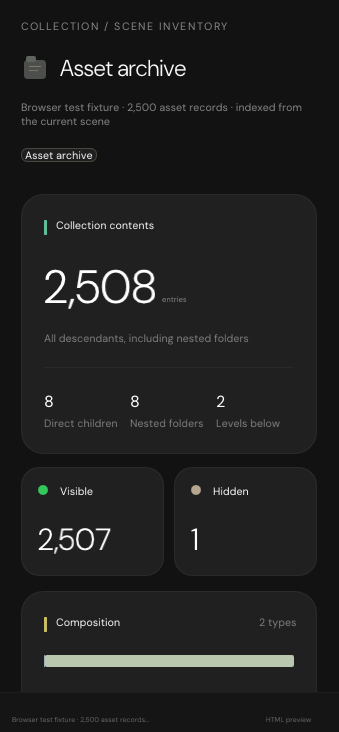
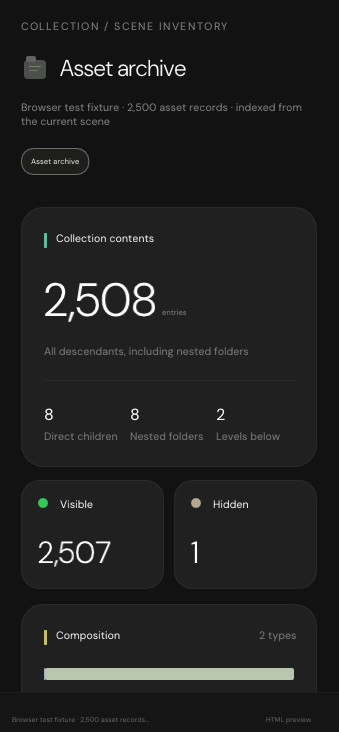
Replace default inspector widgets with source-styled controls

diff --git a/Frontier/Engine/Editor/InspectorPanel.cpp b/Frontier/Engine/Editor/InspectorPanel.cpp
@@ -312,10 +312,10 @@ void InspectorPanel::RecordCollection(EditorInstance& Selected, uint32_t Index) 
     auto EndCard=[&](){ImGui::EndChild();ImGui::PopStyleColor(2);ImGui::PopStyleVar(2);ImGui::Dummy({0,5});};
     ImGui::Dummy({0,1});RecordCaps("COLLECTION / SCENE INVENTORY",ImGui::GetCursorScreenPos(),kDim);ImGui::Dummy({0,27});
     const ImVec2 TitleAt=ImGui::GetCursorScreenPos();ImGui::Dummy({0,38});D->AddRectFilled({TitleAt.x+3,TitleAt.y+10},{TitleAt.x+25,TitleAt.y+29},IM_COL32(76,79,75,255),3);D->AddRectFilled({TitleAt.x+5,TitleAt.y+6},{TitleAt.x+15,TitleAt.y+12},IM_COL32(96,100,94,255),2);if(!std::strcmp(Selected.Label,"Asset archive")){D->AddLine({TitleAt.x+8,TitleAt.y+16},{TitleAt.x+20,TitleAt.y+16},IM_COL32(145,140,113,180),1);D->AddLine({TitleAt.x+8,TitleAt.y+20},{TitleAt.x+17,TitleAt.y+20},IM_COL32(145,140,113,150),1);}else D->AddRectFilled({TitleAt.x+6,TitleAt.y+21},{TitleAt.x+9,TitleAt.y+24},IM_COL32(75,135,151,220),1);ImGui::SetCursorScreenPos({TitleAt.x+35,TitleAt.y});ImGui::PushFont(Controls_->QueryTitle(),30);ImGui::SetNextItemWidth(W-78);ImGui::PushStyleColor(ImGuiCol_FrameBg,{0,0,0,0});ImGui::InputText("##folder-name",Selected.Label,sizeof(Selected.Label));ImGui::PopStyleColor();ImGui::PopFont();ImGui::SetCursorScreenPos({TitleAt.x,TitleAt.y+50});
-    ImGui::PushStyleColor(ImGuiCol_Text,kDim);ImGui::PushTextWrapPos(ImGui::GetCursorPosX()+W);ImGui::TextWrapped("%s",!std::strcmp(Selected.Label,"Asset archive")?"Browser test fixture · 2,500 asset records · indexed from the current scene":"Environment · indexed from the current scene");ImGui::PopTextWrapPos();ImGui::PopStyleColor();const ImVec2 AfterDescription=ImGui::GetCursorScreenPos();ImGui::SetCursorScreenPos({TitleAt.x+W-58,TitleAt.y+4});if(ImGui::InvisibleButton("##folder-notes-reveal",{54,24}))NotesFocus_=true;if(ImGui::IsItemHovered())D->AddText(Controls_->QuerySmall(),9,{TitleAt.x+W-54,TitleAt.y+11},kDim,Selected.Notes[0]?"Edit notes":"+ Notes");ImGui::SetCursorScreenPos(AfterDescription);if(Selected.Notes[0]&&ImGui::SmallButton("Edit Notes"))NotesFocus_=true;
+    ImGui::PushStyleColor(ImGuiCol_Text,kDim);ImGui::PushTextWrapPos(ImGui::GetCursorPosX()+W);ImGui::TextWrapped("%s",!std::strcmp(Selected.Label,"Asset archive")?"Browser test fixture · 2,500 asset records · indexed from the current scene":"Environment · indexed from the current scene");ImGui::PopTextWrapPos();ImGui::PopStyleColor();const ImVec2 AfterDescription=ImGui::GetCursorScreenPos();ImGui::SetCursorScreenPos({TitleAt.x+W-58,TitleAt.y+4});if(ImGui::InvisibleButton("##folder-notes-reveal",{54,24}))NotesFocus_=true;if(ImGui::IsItemHovered())D->AddText(Controls_->QuerySmall(),9,{TitleAt.x+W-54,TitleAt.y+11},kDim,Selected.Notes[0]?"Edit notes":"+ Notes");ImGui::SetCursorScreenPos(AfterDescription);if(Selected.Notes[0]){const ImVec2 NotesAt=ImGui::GetCursorScreenPos();if(ImGui::InvisibleButton("##edit-folder-notes",{72,26}))NotesFocus_=true;D->AddRectFilled(NotesAt,{NotesAt.x+72,NotesAt.y+26},IM_COL32(30,31,29,255),13);D->AddText(Controls_->QuerySmall(),9,{NotesAt.x+12,NotesAt.y+8},kText,"Edit Notes");}
     if(Selected.Notes[0]||NotesFocus_){ImGui::SetNextItemWidth(-1);ImGui::PushStyleColor(ImGuiCol_FrameBg,IM_COL32(13,13,13,255));ImGui::InputTextMultiline("##folder-notes",Selected.Notes,sizeof(Selected.Notes),{-1,58});NotesFocus_=ImGui::IsItemFocused()||NotesFocus_;ImGui::PopStyleColor();}
     ImGui::Dummy({0,12});ImGui::PushStyleVar(ImGuiStyleVar_FrameRounding,14);ImGui::PushStyleVar(ImGuiStyleVar_FrameBorderSize,1);ImGui::PushStyleColor(ImGuiCol_Border,{.28f,.28f,.25f,1});ImGui::PushStyleColor(ImGuiCol_Button,{.12f,.12f,.12f,1});ImGui::PushStyleColor(ImGuiCol_ButtonHovered,{.17f,.17f,.17f,1});
-    std::vector<uint32_t> Trail;for(uint32_t I=0;I<=Index&&I<RosterCount_;++I){while(!Trail.empty()&&Roster_[Trail.back()].Depth>=Roster_[I].Depth)Trail.pop_back();if(I==Index||Roster_[I].Category==EditorInstanceCategory::Folder)Trail.push_back(I);}const size_t First=Trail.size()>4?Trail.size()-4:0;for(size_t I=First;I<Trail.size();++I){if(I>First)ImGui::SameLine(0,3);if(ImGui::SmallButton(Roster_[Trail[I]].Label))CollectionPick_=Trail[I];if(I+1<Trail.size()){ImGui::SameLine(0,3);ImGui::TextDisabled("/");}}
+    std::vector<uint32_t> Trail;for(uint32_t I=0;I<=Index&&I<RosterCount_;++I){while(!Trail.empty()&&Roster_[Trail.back()].Depth>=Roster_[I].Depth)Trail.pop_back();if(I==Index||Roster_[I].Category==EditorInstanceCategory::Folder)Trail.push_back(I);}const size_t First=Trail.size()>4?Trail.size()-4:0;for(size_t I=First;I<Trail.size();++I){if(I>First)ImGui::SameLine(0,3);const char* Crumb=Roster_[Trail[I]].Label;const float CrumbW=Controls_->QuerySmall()->CalcTextSizeA(10,FLT_MAX,0,Crumb).x+20;const ImVec2 CrumbAt=ImGui::GetCursorScreenPos();ImGui::PushID(int(Trail[I]));if(ImGui::InvisibleButton("##crumb",{CrumbW,27}))CollectionPick_=Trail[I];ImGui::PopID();D->AddRectFilled(CrumbAt,{CrumbAt.x+CrumbW,CrumbAt.y+27},IM_COL32(30,31,29,255),14);D->AddRect(CrumbAt,{CrumbAt.x+CrumbW,CrumbAt.y+27},IM_COL32(108,111,101,255),14);D->AddText(Controls_->QuerySmall(),10,{CrumbAt.x+10,CrumbAt.y+8},kText,Crumb);if(I+1<Trail.size()){ImGui::SameLine(0,3);ImGui::TextDisabled("/");}}
     ImGui::PopStyleColor(3);ImGui::PopStyleVar(2);ImGui::Dummy({0,24});
 
     Card("##collection-total",260);D=ImGui::GetWindowDrawList();const ImVec2 TotalOrigin=ImGui::GetWindowPos();D->AddRectFilled({TotalOrigin.x+23,TotalOrigin.y+26},{TotalOrigin.x+26,TotalOrigin.y+41},IM_COL32(95,190,151,255),2);ImGui::SetCursorPos({35,24});ImGui::TextUnformatted("Collection contents");ImGui::SetCursorPos({23,62});ImGui::PushFont(Controls_->QueryDisplay(),61);char TotalText[32];CountText(TotalText,sizeof(TotalText),C.Total);ImGui::TextUnformatted(TotalText);ImGui::PopFont();const float TotalWidth=Controls_->QueryDisplay()->CalcTextSizeA(61,FLT_MAX,0,TotalText).x;D->AddText(Controls_->QuerySmall(),10,{TotalOrigin.x+29+TotalWidth,TotalOrigin.y+100},kDim,"entries");ImGui::SetCursorPos({23,137});ImGui::TextDisabled("All descendants, including nested folders");D->AddLine({TotalOrigin.x+23,TotalOrigin.y+173},{TotalOrigin.x+W-23,TotalOrigin.y+173},IM_COL32(255,255,255,10));ImGui::SetCursorPos({23,195});
@@ -328,11 +328,11 @@ void InspectorPanel::RecordCollection(EditorInstance& Selected, uint32_t Index) 
     const ImU32 Palette[]={IM_COL32(156,171,185,255),IM_COL32(185,199,174,255),IM_COL32(209,184,152,255),IM_COL32(166,161,152,255),IM_COL32(160,181,169,255),IM_COL32(190,181,163,255),IM_COL32(144,160,173,255),IM_COL32(199,185,161,255)};float BX=ImGui::GetCursorScreenPos().x,BY=ImGui::GetCursorScreenPos().y,BW=ImGui::GetContentRegionAvail().x;for(size_t I=0;I<CompositionTypes.size();++I){float Part=BW*CompositionTypes[I].Count/std::max(1u,C.Total);D->AddRectFilled({BX,BY},{BX+Part,BY+12},Palette[I%std::size(Palette)],2);BX+=Part;}ImGui::Dummy({0,CompositionTypes.size()<=2?31.f:23.f});
     if(ImGui::BeginTable("##composition-types",2,ImGuiTableFlags_SizingStretchSame)){for(size_t I=0;I<CompositionTypes.size();++I){const auto& Type=CompositionTypes[I];ImGui::TableNextColumn();ImGui::PushID(int(I));const float CellW=ImGui::GetContentRegionAvail().x;const bool SelectedType=Type.GlyphFilter?C.GlyphFilter==Type.GlyphFilter:(Type.CategoryFilter&&C.Category==Type.CategoryFilter);if(ImGui::Selectable(Type.Name,SelectedType,0,{CellW,27})){if(Type.GlyphFilter){C.GlyphFilter=SelectedType?0:Type.GlyphFilter;C.Category=0;}else if(Type.CategoryFilter){C.Category=SelectedType?0:Type.CategoryFilter;C.GlyphFilter=0;}C.Page=0;}ImGui::SameLine(CellW-20);ImGui::Text("%u",Type.Count);ImGui::PopID();}ImGui::EndTable();}ImGui::TextDisabled("Visibility includes ancestor folders. Counts are scene records, not render workload or memory.");EndCard();
 
-    Card("##collection-browser",820);D=ImGui::GetWindowDrawList();ImGui::PushStyleColor(ImGuiCol_FrameBg,IM_COL32(21,25,22,255));ImGui::PushStyleColor(ImGuiCol_FrameBgHovered,IM_COL32(27,32,28,255));ImGui::PushStyleColor(ImGuiCol_FrameBgActive,IM_COL32(31,37,32,255));ImGui::PushStyleColor(ImGuiCol_Button,IM_COL32(21,25,22,255));ImGui::PushStyleColor(ImGuiCol_ButtonHovered,IM_COL32(27,32,28,255));ImGui::PushStyleColor(ImGuiCol_ButtonActive,IM_COL32(31,37,32,255));ImGui::PushStyleVar(ImGuiStyleVar_FrameRounding,10);ImGui::PushStyleVar(ImGuiStyleVar_FramePadding,{8,8});{const ImVec2 P=ImGui::GetWindowPos();D->AddRectFilled({P.x+23,P.y+26},{P.x+26,P.y+41},IM_COL32(176,199,207,255),2);}ImGui::SetCursorPosX(35);ImGui::TextUnformatted("Browse contents");ImGui::SameLine(W-86);char MatchText[48];char MatchCount[32];CountText(MatchCount,sizeof(MatchCount),uint32_t(C.Matches.size()));std::snprintf(MatchText,sizeof(MatchText),"%s matches",MatchCount);ImGui::TextDisabled("%s",MatchText);ImGui::Dummy({0,14});ImGui::TextDisabled("Find an entry");ImGui::SetNextItemWidth(-1);bool Changed=ImGui::InputTextWithHint("##search","Name, ID or description…",C.Search,sizeof(C.Search));ImGui::Dummy({0,8});
-    const float FW=(ImGui::GetContentRegionAvail().x-8)*.5f;ImGui::TextDisabled("Scope");ImGui::SameLine(FW+8);ImGui::TextDisabled("Type");ImGui::SetNextItemWidth(FW);int Scope=C.DirectOnly?1:0;Changed|=ImGui::Combo("##scope",&Scope,"All descendants\0Direct children\0");C.DirectOnly=Scope==1;ImGui::SameLine();ImGui::SetNextItemWidth(FW);const char* ActiveType="All types";for(const auto& Type:CompositionTypes)if((Type.GlyphFilter&&C.GlyphFilter==Type.GlyphFilter)||(Type.CategoryFilter&&C.Category==Type.CategoryFilter)){ActiveType=Type.Name;break;}if(ImGui::BeginCombo("##type",ActiveType)){if(ImGui::Selectable("All types",!C.Category&&!C.GlyphFilter)){C.Category=C.GlyphFilter=0;Changed=true;}for(const auto& Type:CompositionTypes){const bool Active=(Type.GlyphFilter&&C.GlyphFilter==Type.GlyphFilter)||(Type.CategoryFilter&&C.Category==Type.CategoryFilter);if(ImGui::Selectable(Type.Name,Active)){C.GlyphFilter=Type.GlyphFilter;C.Category=Type.CategoryFilter;Changed=true;}}ImGui::EndCombo();}ImGui::Dummy({0,8});ImGui::TextDisabled("Visibility");ImGui::SameLine(FW+8);ImGui::TextDisabled("Sort");ImGui::SetNextItemWidth(FW);Changed|=ImGui::Combo("##visibility",&C.Visibility,"All entries\0Visible\0Hidden\0");ImGui::SameLine();ImGui::SetNextItemWidth(FW);Changed|=ImGui::Combo("##sort",&C.Sort,"Name A-Z\0Type\0Hierarchy depth\0");ImGui::Dummy({0,5});if(Changed)C.Page=0;C.Traverse(Roster_,RosterCount_,Index);
+    Card("##collection-browser",820);D=ImGui::GetWindowDrawList();ImGui::PushStyleColor(ImGuiCol_FrameBg,IM_COL32(21,25,22,255));ImGui::PushStyleColor(ImGuiCol_FrameBgHovered,IM_COL32(27,32,28,255));ImGui::PushStyleColor(ImGuiCol_FrameBgActive,IM_COL32(31,37,32,255));ImGui::PushStyleColor(ImGuiCol_Button,IM_COL32(21,25,22,255));ImGui::PushStyleColor(ImGuiCol_ButtonHovered,IM_COL32(27,32,28,255));ImGui::PushStyleColor(ImGuiCol_ButtonActive,IM_COL32(31,37,32,255));ImGui::PushStyleVar(ImGuiStyleVar_FrameRounding,10);ImGui::PushStyleVar(ImGuiStyleVar_FramePadding,{8,8});{const ImVec2 P=ImGui::GetWindowPos();D->AddRectFilled({P.x+23,P.y+26},{P.x+26,P.y+41},IM_COL32(176,199,207,255),2);}ImGui::SetCursorPosX(35);ImGui::TextUnformatted("Browse contents");ImGui::SameLine(W-86);char MatchText[48];char MatchCount[32];CountText(MatchCount,sizeof(MatchCount),uint32_t(C.Matches.size()));std::snprintf(MatchText,sizeof(MatchText),"%s matches",MatchCount);ImGui::TextDisabled("%s",MatchText);ImGui::Dummy({0,14});ImGui::TextDisabled("Find an entry");const ImVec2 SearchAt=ImGui::GetCursorScreenPos();D->AddRectFilled(SearchAt,{SearchAt.x+ImGui::GetContentRegionAvail().x,SearchAt.y+32},IM_COL32(21,25,22,255),10);ImGui::PushStyleColor(ImGuiCol_FrameBg,IM_COL32(0,0,0,0));ImGui::PushStyleVar(ImGuiStyleVar_FrameBorderSize,0);ImGui::SetNextItemWidth(-1);bool Changed=ImGui::InputTextWithHint("##search","Name, ID or description…",C.Search,sizeof(C.Search));ImGui::PopStyleVar();ImGui::PopStyleColor();ImGui::Dummy({0,8});
+    const float FW=(ImGui::GetContentRegionAvail().x-8)*.5f;auto SelectBox=[&](const char* Id,const char* Value,float Width){const ImVec2 P=ImGui::GetCursorScreenPos();ImGui::PushID(Id);const bool Clicked=ImGui::InvisibleButton("##select",{Width,32});ImGui::PopID();D->AddRectFilled(P,{P.x+Width,P.y+32},IM_COL32(21,25,22,255),10);D->AddText(Controls_->QueryUi(),11,{P.x+10,P.y+9},kText,Value);D->AddLine({P.x+Width-15,P.y+13},{P.x+Width-10,P.y+18},IM_COL32(188,201,182,255),1.5f);D->AddLine({P.x+Width-10,P.y+18},{P.x+Width-5,P.y+13},IM_COL32(188,201,182,255),1.5f);if(Clicked)ImGui::OpenPopup(Id);return ImGui::BeginPopup(Id);};ImGui::TextDisabled("Scope");ImGui::SameLine(FW+8);ImGui::TextDisabled("Type");if(SelectBox("scope",C.DirectOnly?"Direct children":"All descendants",FW)){if(ImGui::Selectable("All descendants",!C.DirectOnly)){C.DirectOnly=false;Changed=true;}if(ImGui::Selectable("Direct children",C.DirectOnly)){C.DirectOnly=true;Changed=true;}ImGui::EndPopup();}ImGui::SameLine();const char* ActiveType="All types";for(const auto& Type:CompositionTypes)if((Type.GlyphFilter&&C.GlyphFilter==Type.GlyphFilter)||(Type.CategoryFilter&&C.Category==Type.CategoryFilter)){ActiveType=Type.Name;break;}if(SelectBox("type",ActiveType,FW)){if(ImGui::Selectable("All types",!C.Category&&!C.GlyphFilter)){C.Category=C.GlyphFilter=0;Changed=true;}for(const auto& Type:CompositionTypes){const bool Active=(Type.GlyphFilter&&C.GlyphFilter==Type.GlyphFilter)||(Type.CategoryFilter&&C.Category==Type.CategoryFilter);if(ImGui::Selectable(Type.Name,Active)){C.GlyphFilter=Type.GlyphFilter;C.Category=Type.CategoryFilter;Changed=true;}}ImGui::EndPopup();}ImGui::Dummy({0,8});ImGui::TextDisabled("Visibility");ImGui::SameLine(FW+8);ImGui::TextDisabled("Sort");const char* VisibilityNames[]={"All entries","Visible","Hidden"};if(SelectBox("visibility",VisibilityNames[std::clamp(C.Visibility,0,2)],FW)){for(int I=0;I<3;++I)if(ImGui::Selectable(VisibilityNames[I],C.Visibility==I)){C.Visibility=I;Changed=true;}ImGui::EndPopup();}ImGui::SameLine();const char* SortNames[]={"Name A–Z","Type","Hierarchy depth"};if(SelectBox("sort",SortNames[std::clamp(C.Sort,0,2)],FW)){for(int I=0;I<3;++I)if(ImGui::Selectable(SortNames[I],C.Sort==I)){C.Sort=I;Changed=true;}ImGui::EndPopup();}ImGui::Dummy({0,5});if(Changed)C.Page=0;C.Traverse(Roster_,RosterCount_,Index);
     const size_t Start=size_t(C.Page)*C.PageSize,Last=std::min(C.Matches.size(),Start+size_t(C.PageSize));for(size_t J=Start;J<Last&&J<Start+7;++J){const auto M=C.Matches[J];auto& R=Roster_[M.Index];ImGui::PushID(int(M.Index));const float RowW=ImGui::GetContentRegionAvail().x;ImGui::InvisibleButton("##entry",{RowW-44,67});if(ImGui::IsItemClicked())CollectionPick_=M.Index;const ImVec2 RM=ImGui::GetItemRectMin();D->AddLine({RM.x,RM.y+66},{RM.x+RowW,RM.y+66},IM_COL32(255,255,255,10));const ImU32 RC=R.Category==EditorInstanceCategory::Light?IM_COL32(209,184,152,255):R.Category==EditorInstanceCategory::Camera?IM_COL32(156,171,185,255):R.Category==EditorInstanceCategory::Folder?IM_COL32(185,199,174,255):IM_COL32(18,111,194,255);const ImVec2 CubeC={RM.x+67.5f,RM.y+33.5f};const ImVec2 Cube[]={ {CubeC.x,CubeC.y-7},{CubeC.x+6,CubeC.y-3.5f},{CubeC.x+6,CubeC.y+4},{CubeC.x,CubeC.y+7.5f},{CubeC.x-6,CubeC.y+4},{CubeC.x-6,CubeC.y-3.5f} };D->AddTriangleFilled(Cube[0],Cube[1],CubeC,IM_COL32(18,111,194,80));D->AddTriangleFilled(Cube[0],CubeC,Cube[5],IM_COL32(18,111,194,55));D->AddQuadFilled(CubeC,Cube[1],Cube[2],Cube[3],IM_COL32(18,111,194,42));D->AddQuadFilled(Cube[5],CubeC,Cube[3],Cube[4],IM_COL32(18,111,194,28));D->AddPolyline(Cube,6,RC,1.2f,ImDrawFlags_Closed);D->AddLine(Cube[0],CubeC,RC,1);D->AddLine(CubeC,Cube[3],RC,1);D->AddLine(CubeC,Cube[1],RC,1);D->AddLine(CubeC,Cube[5],RC,1);D->AddText(Controls_->QueryUi(),13,{RM.x+87,RM.y+11},kText,R.Label);char Meta[64];std::snprintf(Meta,sizeof(Meta),"%s · level %u",EditorInstanceLabel(R.Category),R.Depth);D->AddText(Controls_->QuerySmall(),10,{RM.x+87,RM.y+31},kDim,Meta);const char* Parent="scene";for(uint32_t K=M.Index;K>0;){--K;if(Roster_[K].Depth<R.Depth){Parent=Roster_[K].Label;break;}}char VisibilityText[96];std::snprintf(VisibilityText,sizeof(VisibilityText),"%s · %s",M.Visible?"Visible":"Hidden",(!std::strcmp(Selected.Label,"Asset archive")&&R.Meta[0])?R.Meta:Parent);D->AddText(Controls_->QuerySmall(),9,{RM.x+87,RM.y+46},kFaint,VisibilityText);ImGui::SameLine();ImGui::InvisibleButton("##entry-visibility",{38,67});if(ImGui::IsItemClicked()&&!R.Pinned)R.Visible=!R.Visible;const ImVec2 ToggleMin=ImGui::GetItemRectMin(),ToggleC={ToggleMin.x+19,ToggleMin.y+33.5f};D->AddCircleFilled(ToggleC,15,M.Visible?IM_COL32(39,54,40,255):IM_COL32(48,48,48,255),24);D->AddCircleFilled(ToggleC,4,M.Visible?IM_COL32(91,190,116,255):IM_COL32(122,122,122,255),16);ImGui::PopID();}
-    if(C.Matches.empty()){ImGui::TextDisabled("No matching entries.");}const int Pages=std::max(1,(int(C.Matches.size())+C.PageSize-1)/C.PageSize);char PageRange[64],MatchTotal[24];CountText(MatchTotal,sizeof(MatchTotal),uint32_t(C.Matches.size()));std::snprintf(PageRange,sizeof(PageRange),"%zu–%zu of %s",C.Matches.empty()?0:Start+1,std::min(Last,C.Matches.size()),MatchTotal);ImGui::TextDisabled("%s",PageRange);ImGui::SameLine(W-146);ImGui::BeginDisabled(C.Page==0);if(ImGui::Button("←",{28,26}))--C.Page;ImGui::EndDisabled();ImGui::SameLine(0,5);ImGui::TextDisabled("%d / %d",C.Page+1,Pages);ImGui::SameLine(0,5);ImGui::BeginDisabled(Last>=C.Matches.size());if(ImGui::Button("→",{28,26}))++C.Page;ImGui::EndDisabled();ImGui::SameLine(0,5);ImGui::SetNextItemWidth(50);const char* PageSizes[]={"25","50","100"};int PageSizeIndex=C.PageSize==100?2:C.PageSize==50?1:0;if(ImGui::Combo("##page-size",&PageSizeIndex,PageSizes,3)){C.PageSize=PageSizeIndex==2?100:PageSizeIndex==1?50:25;C.Page=0;}ImGui::PopStyleVar(2);ImGui::PopStyleColor(6);EndCard();
-    Card("##collection-notes",190);D=ImGui::GetWindowDrawList();{const ImVec2 P=ImGui::GetWindowPos();D->AddRectFilled({P.x+23,P.y+26},{P.x+26,P.y+41},IM_COL32(210,167,112,255),2);}ImGui::SetCursorPosX(35);ImGui::TextUnformatted("Collection notes");ImGui::Dummy({0,16});ImGui::TextDisabled("Collection accent");ImGui::SameLine(W-62);Controls_->ColourChip("##collection-tint",Selected.Tint);ImGui::Dummy({0,12});ImGui::TextDisabled("Identity colour only · child objects are unchanged.");ImGui::TextDisabled("ID · %llu",static_cast<unsigned long long>(Selected.InspectorKey));EndCard();
+    if(C.Matches.empty()){ImGui::TextDisabled("No matching entries.");}const int Pages=std::max(1,(int(C.Matches.size())+C.PageSize-1)/C.PageSize);char PageRange[64],MatchTotal[24];CountText(MatchTotal,sizeof(MatchTotal),uint32_t(C.Matches.size()));std::snprintf(PageRange,sizeof(PageRange),"%zu–%zu of %s",C.Matches.empty()?0:Start+1,std::min(Last,C.Matches.size()),MatchTotal);ImGui::TextDisabled("%s",PageRange);ImGui::SameLine(W-146);auto PageArrow=[&](const char* Id,bool Forward,bool Enabled){const ImVec2 P=ImGui::GetCursorScreenPos();ImGui::PushID(Id);const bool Pressed=ImGui::InvisibleButton("##page",{28,26})&&Enabled;ImGui::PopID();D->AddRectFilled(P,{P.x+28,P.y+26},Enabled?IM_COL32(34,38,34,255):IM_COL32(25,25,25,255),8);const float Sign=Forward?1.f:-1.f;D->AddTriangleFilled({P.x+14+Sign*4,P.y+7},{P.x+14+Sign*4,P.y+19},{P.x+14-Sign*3,P.y+13},Enabled?IM_COL32(190,201,185,255):IM_COL32(80,80,80,255));return Pressed;};if(PageArrow("previous",false,C.Page>0))--C.Page;ImGui::SameLine(0,5);ImGui::TextDisabled("%d / %d",C.Page+1,Pages);ImGui::SameLine(0,5);if(PageArrow("next",true,Last<C.Matches.size()))++C.Page;ImGui::SameLine(0,5);char PageSizeText[8];std::snprintf(PageSizeText,sizeof(PageSizeText),"%d",C.PageSize);if(SelectBox("page-size",PageSizeText,50)){for(int Size: {25,50,100}){char SizeText[8];std::snprintf(SizeText,sizeof(SizeText),"%d",Size);if(ImGui::Selectable(SizeText,C.PageSize==Size)){C.PageSize=Size;C.Page=0;}}ImGui::EndPopup();}ImGui::PopStyleVar(2);ImGui::PopStyleColor(6);EndCard();
+    Card("##collection-notes",190);D=ImGui::GetWindowDrawList();{const ImVec2 P=ImGui::GetWindowPos();D->AddRectFilled({P.x+23,P.y+26},{P.x+26,P.y+41},IM_COL32(210,167,112,255),2);}ImGui::SetCursorPosX(35);ImGui::TextUnformatted("Collection notes");ImGui::Dummy({0,16});ImGui::TextDisabled("Collection accent");ImGui::SameLine(W-62);const ImVec2 TintAt=ImGui::GetCursorScreenPos();if(ImGui::InvisibleButton("##collection-tint",{31,26}))ImGui::OpenPopup("##collection-tint-picker");D->AddRectFilled(TintAt,{TintAt.x+31,TintAt.y+26},IM_COL32(int(std::clamp(Selected.Tint[0],0.f,1.f)*255),int(std::clamp(Selected.Tint[1],0.f,1.f)*255),int(std::clamp(Selected.Tint[2],0.f,1.f)*255),255),5);if(ImGui::BeginPopup("##collection-tint-picker")){ImGui::ColorPicker3("##rgb",Selected.Tint,ImGuiColorEditFlags_NoAlpha|ImGuiColorEditFlags_NoSidePreview);ImGui::EndPopup();}ImGui::Dummy({0,12});ImGui::TextDisabled("Identity colour only · child objects are unchanged.");ImGui::TextDisabled("ID · %llu",static_cast<unsigned long long>(Selected.InspectorKey));EndCard();
     ImGui::Unindent(7);ImGui::PopFont();ImGui::PopID();
 }
 void InspectorPanel::RecordEmpty() noexcept

diff --git a/Frontier/Engine/Editor/LightInspectorPanel.cpp b/Frontier/Engine/Editor/LightInspectorPanel.cpp
@@ -10,7 +10,7 @@
 namespace Frontier { namespace {
 constexpr ImU32 Ink=IM_COL32(234,234,234,255),Muted=IM_COL32(145,145,145,255),Gold=IM_COL32(227,194,112,255);
 EditorProperty* Find(EditorSheet& S,const char* N){for(uint32_t G=0;G<S.GroupCount;++G)for(uint32_t I=0;I<S.Groups[G].PropertyCount;++I)if(!std::strcmp(S.Groups[G].Properties[I].Label,N))return &S.Groups[G].Properties[I];return nullptr;}
-struct Panel {ControlPanel& C;EditorSheet& S;ImDrawList* D;ImVec2 O;ImFont* F;ImVec2 At(float X,float Y)const{return {O.x+X,O.y+Y};}void Text(float X,float Y,const char* T,float Z=12,ImU32 K=Ink){D->AddText(F,Z,At(X,Y),K,T);}void Wrap(float X,float Y,float W,const char* T){D->AddText(F,11,At(X,Y),Muted,T,nullptr,W);}void Card(float X,float Y,float W,float H,const char* T){int A=D->VtxBuffer.Size;D->AddRectFilled(At(X,Y),At(X+W,Y+H),IM_COL32_WHITE,22);ImGui::ShadeVertsLinearColorGradientKeepAlpha(D,A,D->VtxBuffer.Size,At(X,Y),At(X+W,Y+H),IM_COL32(36,38,38,255),IM_COL32(29,30,30,255));D->AddRect(At(X,Y),At(X+W,Y+H),IM_COL32(255,255,255,12),22);Text(X+18,Y+18,T);}void Slider(float X,float Y,float W,const char* N){auto* P=Find(S,N);if(!P)return;Text(X,Y,N,11,Muted);ImGui::SetCursorScreenPos(At(X,Y+22));ImGui::PushID(N);ImGui::BeginChild(N,{W,30},ImGuiChildFlags_None,ImGuiWindowFlags_NoScrollbar|ImGuiWindowFlags_NoScrollWithMouse);C.SliderPill("##value",&P->Figure,P->Minimum,P->Maximum,P->Decimals,P->Unit,false,false,true);ImGui::EndChild();ImGui::PopID();}void Tile(float X,float Y,float W,const char* N){auto* P=Find(S,N);ImGui::SetCursorScreenPos(At(X,Y));ImGui::BeginDisabled(!P);if(ImGui::InvisibleButton(N,{W,65})&&P)P->On=!P->On;ImGui::EndDisabled();bool On=P&&P->On;ImU32 K=!P?Muted:On?IM_COL32(132,207,157,255):IM_COL32(221,137,137,255);D->AddRectFilled(At(X,Y),At(X+W,Y+65),IM_COL32(34,34,34,255),13);D->AddRect(At(X,Y),At(X+W,Y+65),IM_COL32(58,56,51,255),13);D->AddCircle(At(X+W/2,Y+20),7,K,20,1.4f);D->AddLine(At(X+W/2,Y+10),At(X+W/2,Y+18),K,1.5f);float L=F->CalcTextSizeA(10,10000,0,N).x;Text(X+(W-L)/2,Y+42,N,10,K);}void Select(float X,float Y,float W,const char* N){auto* P=Find(S,N);if(!P)return;Text(X,Y,N,11,Muted);ImGui::SetCursorScreenPos(At(X,Y+22));ImGui::BeginChild(N,{W,32},ImGuiChildFlags_None,ImGuiWindowFlags_NoScrollbar|ImGuiWindowFlags_NoScrollWithMouse);C.DropDown("##select",&P->Picked,P->Options,P->OptionCount);ImGui::EndChild();}};
+struct Panel {ControlPanel& C;EditorSheet& S;ImDrawList* D;ImVec2 O;ImFont* F;ImVec2 At(float X,float Y)const{return {O.x+X,O.y+Y};}void Text(float X,float Y,const char* T,float Z=12,ImU32 K=Ink){D->AddText(F,Z,At(X,Y),K,T);}void Wrap(float X,float Y,float W,const char* T){D->AddText(F,11,At(X,Y),Muted,T,nullptr,W);}void Card(float X,float Y,float W,float H,const char* T){int A=D->VtxBuffer.Size;D->AddRectFilled(At(X,Y),At(X+W,Y+H),IM_COL32_WHITE,22);ImGui::ShadeVertsLinearColorGradientKeepAlpha(D,A,D->VtxBuffer.Size,At(X,Y),At(X+W,Y+H),IM_COL32(36,38,38,255),IM_COL32(29,30,30,255));D->AddRect(At(X,Y),At(X+W,Y+H),IM_COL32(255,255,255,12),22);Text(X+18,Y+18,T);}void Slider(float X,float Y,float W,const char* N){auto* P=Find(S,N);if(!P)return;Text(X,Y,N,10,IM_COL32(170,179,165,255));const float ValueW=90,Gap=12,TrackX=X+ValueW+Gap,TrackW=std::max(38.f,W-ValueW-Gap);ImGui::PushID(N);ImGui::SetCursorScreenPos(At(X,Y+22));ImGui::InvisibleButton("##number",{ValueW,26});if(ImGui::IsItemActive()&&ImGui::IsMouseDragging(ImGuiMouseButton_Left)){const float Step=(P->Maximum-P->Minimum)/240.f;P->Figure=std::clamp(P->Figure+ImGui::GetIO().MouseDelta.x*Step,P->Minimum,P->Maximum);}ImGui::SetCursorScreenPos(At(TrackX,Y+22));ImGui::InvisibleButton("##track",{TrackW,26});if(ImGui::IsItemActive()){const float Mouse=ImGui::GetIO().MousePos.x-At(TrackX,Y+22).x;P->Figure=std::clamp(P->Minimum+(P->Maximum-P->Minimum)*std::clamp(Mouse/TrackW,0.f,1.f),P->Minimum,P->Maximum);}const float Ratio=(P->Figure-P->Minimum)/std::max(.00001f,P->Maximum-P->Minimum),KnobX=TrackX+12+Ratio*std::max(1.f,TrackW-24);D->AddRectFilled(At(X,Y+22),At(X+ValueW,Y+48),IM_COL32(0,0,0,255),13);D->AddRectFilled(At(TrackX,Y+22),At(TrackX+TrackW,Y+48),IM_COL32(36,36,36,255),13);D->AddRectFilled(At(TrackX,Y+22),At(KnobX,Y+48),IM_COL32(69,69,69,255),13,ImDrawFlags_RoundCornersLeft);D->AddCircleFilled(At(KnobX,Y+35),12,IM_COL32(221,223,222,255),24);char Figure[48];std::snprintf(Figure,sizeof(Figure),"%.*f",int(P->Decimals),double(P->Figure));Text(X+12,Y+30,Figure,10,IM_COL32(222,222,222,255));if(P->Unit[0])Text(X+58,Y+30,P->Unit,9,IM_COL32(111,116,112,255));ImGui::PopID();}void Tile(float X,float Y,float W,const char* N){auto* P=Find(S,N);ImGui::SetCursorScreenPos(At(X,Y));ImGui::BeginDisabled(!P);if(ImGui::InvisibleButton(N,{W,65})&&P)P->On=!P->On;ImGui::EndDisabled();bool On=P&&P->On;ImU32 K=!P?Muted:On?IM_COL32(132,207,157,255):IM_COL32(221,137,137,255);D->AddRectFilled(At(X,Y),At(X+W,Y+65),IM_COL32(34,34,34,255),13);D->AddRect(At(X,Y),At(X+W,Y+65),IM_COL32(58,56,51,255),13);D->AddCircle(At(X+W/2,Y+20),7,K,20,1.4f);D->AddLine(At(X+W/2,Y+10),At(X+W/2,Y+18),K,1.5f);float L=F->CalcTextSizeA(10,10000,0,N).x;Text(X+(W-L)/2,Y+42,N,10,K);}void Select(float X,float Y,float W,const char* N){auto* P=Find(S,N);if(!P)return;Text(X,Y,N,11,Muted);ImGui::SetCursorScreenPos(At(X,Y+22));ImGui::BeginChild(N,{W,32},ImGuiChildFlags_None,ImGuiWindowFlags_NoScrollbar|ImGuiWindowFlags_NoScrollWithMouse);C.DropDown("##select",&P->Picked,P->Options,P->OptionCount);ImGui::EndChild();}};
 const char* TypeName(unsigned T){static const char* N[]={"Directional","Point","Spot","Rectangle / Area","Tube","Strip"};return T<6?N[T]:"Light";}
 void SwitchRow(Panel& U,float X,float Y,float W,const char* Label){auto* P=Find(U.S,Label);U.Text(X,Y+6,Label,11,Muted);const float BX=X+W-42;ImGui::SetCursorScreenPos(U.At(BX,Y));ImGui::BeginDisabled(!P);if(ImGui::InvisibleButton(Label,{42,24})&&P)P->On=!P->On;ImGui::EndDisabled();const bool On=P&&P->On;U.D->AddRectFilled(U.At(BX,Y+2),U.At(BX+38,Y+22),On?IM_COL32(50,199,99,255):IM_COL32(60,60,60,255),12);U.D->AddCircleFilled(U.At(BX+(On?28:10),Y+12),8,IM_COL32(221,221,221,255),20);}
 void RecordStrip(ControlPanel& Controls,EditorSheet& Sheet,Panel& U,float W,EditorProperty& Position){
@@ -21,10 +21,10 @@ void RecordStrip(ControlPanel& Controls,EditorSheet& Sheet,Panel& U,float W,Edit
  const float CX=W*.5f,CY=Y+236,RX=std::min(94.f,W*.31f),RY=50;if(Density<100){const ImVec2 Rail[]={U.At(30,Y+174),U.At(W-72,Y+174),U.At(W-72,Y+284)};U.D->AddPolyline(Rail,3,IM_COL32(72,69,60,210),10.f,ImDrawFlags_None);U.D->AddPolyline(Rail,3,IM_COL32(38,42,35,255),6.f,ImDrawFlags_None);for(int I=3;I>0;--I)U.D->AddPolyline(Rail,3,IM_COL32(218,139,70,12),float(I*2),ImDrawFlags_None);const float Horizontal=W-102,Run=Horizontal+110;for(int S=0;S<64;++S){const float D=Run*S/63.f;const float X=D<=Horizontal?30+D:W-72,YY=D<=Horizontal?Y+174:Y+174+D-Horizontal;U.D->AddCircle(U.At(X,YY),4.2f,IM_COL32(229,148,77,38),10,1);U.D->AddCircleFilled(U.At(X,YY),2.15f,IM_COL32(236,159,83,235),10);}}else{U.D->AddEllipse(U.At(CX,CY),{RX+1,RY+1},IM_COL32(72,69,60,220),0,160,12);U.D->AddEllipse(U.At(CX,CY),{RX,RY},IM_COL32(38,42,35,255),0,160,7);for(int I=3;I>0;--I)U.D->AddEllipse(U.At(CX,CY),{RX+I*2.f,RY+I*.8f},IM_COL32(218,139,70,12),0,160,2);for(int S=0;S<64;++S){float A=S*6.2831853f/64,X=CX+std::cos(A)*RX,YY=CY+std::sin(A)*RY;U.D->AddCircle(U.At(X,YY),4.2f,IM_COL32(229,148,77,38),10,1);U.D->AddCircleFilled(U.At(X,YY),2.15f,IM_COL32(236,159,83,235),10);}}
  std::snprintf(T,sizeof(T),"%u LEDS · SCHEMATIC",Emitters);U.Text(24,Y+315,T,9,Muted);std::snprintf(T,sizeof(T),"%.1f m",double(Length));U.Text(W-64,Y+315,T,9,Muted);U.Text(W-174,Y+338,"Source study · HTML authoring",9,Muted);
  Y+=PreviewH+22;float MW=(W-8)/2;for(int I=0;I<2;++I){float X=I*(MW+8);U.D->AddRectFilled(U.At(X,Y),U.At(X+MW,Y+103),IM_COL32(32,35,31,255),14);U.D->AddRectFilled(U.At(X+12,Y+15),U.At(X+15,Y+29),IM_COL32(169,157,112,255),2);}U.Text(14,Y+15,"Connected load",9,IM_COL32(155,169,147,255));std::snprintf(T,sizeof(T),NarrowStudy?"%.1f W":"%.0f W",double(Load));U.Text(18,Y+58,T,24);U.Text(MW+22,Y+15,"Emitter count",9,IM_COL32(155,169,147,255));std::snprintf(T,sizeof(T),"%u LEDs",Emitters);U.Text(MW+22,Y+58,T,24);
- Y+=116;U.Card(0,Y,W,710,"Output per metre");U.Text(W-42,Y+24,"01",8,Muted);U.Slider(24,Y+62,W-48,"Flux per metre");U.Slider(24,Y+137,W-48,"Load per metre");U.Slider(24,Y+212,W-48,"Dimmer");U.Slider(24,Y+287,W-48,"Colour temperature");U.Text(24,Y+362,"Emission tint",11,Muted);auto* Colour=Find(Sheet,"Colour");if(Colour){ImGui::SetCursorScreenPos(U.At(24,Y+384));Controls.ColourChip("##strip-colour",Colour->ColourTint);}U.D->AddLine(U.At(24,Y+430),U.At(W-24,Y+430),IM_COL32(255,255,255,18),1);U.Text(24,Y+455,"Electrical budget",14);U.Text(W-88,Y+458,"ANALYTICAL",8,Muted);std::snprintf(T,sizeof(T),"%.2f A",double(Current));U.D->AddText(Display,32,U.At(24,Y+493),Ink,T);U.Wrap(24,Y+535,W-48,"Connected watts ÷ supply volts · ideal full-load current");const float ChartL=24,ChartR=W-24,ChartT=Y+585,ChartB=Y+665;for(int Row=0;Row<3;++Row){float YY=ChartT+Row*(ChartB-ChartT)/2;for(float X=ChartL;X<ChartR;X+=7)U.D->AddLine(U.At(X,YY),U.At(std::min(X+2,ChartR),YY),IM_COL32(255,255,255,23),1);}U.D->AddLine(U.At(ChartL,ChartB),U.At(ChartR,ChartT),Gold,1.5f);U.Text(ChartL,ChartB+6,"0",9,Muted);std::snprintf(T,sizeof(T),"%.1f m",double(Length));U.Text(ChartR-32,ChartB+6,T,9,Muted);
- Y+=726;U.Card(0,Y,W,366,"Layout & segments");U.Text(W-42,Y+24,"02",8,Muted);U.Slider(24,Y+62,W-48,"Strip length");U.Slider(24,Y+137,W-48,"Emitter density");U.Slider(24,Y+212,W-48,"Supply voltage");SwitchRow(U,24,Y+302,W-48,"Opal diffuser");
- Y+=382;U.Card(0,Y,W,230,"Transform");U.Text(W-94,Y+24,"LOCAL SPACE",8,Muted);U.Text(24,Y+57,"Component",9,Muted);U.Text(W-126,Y+57,"X",9,IM_COL32(214,112,112,255));U.Text(W-83,Y+57,"Y",9,IM_COL32(112,190,130,255));U.Text(W-40,Y+57,"Z",9,IM_COL32(105,146,216,255));U.Text(24,Y+91,"Position",10,Muted);ImGui::SetCursorScreenPos(U.At(84,Y+77));ImGui::BeginChild("Position",{W-108,32},ImGuiChildFlags_None,ImGuiWindowFlags_NoScrollbar);Controls.AxisVec3("##strip-position",Position.Axes,Position.AxisStep,true);ImGui::EndChild();U.Text(24,Y+130,"Direction",10,Muted);U.Text(84,Y+130,"+X local run",10);ImGui::SetCursorScreenPos(U.At(24,Y+161));if(ImGui::InvisibleButton("##reset-strip-position",{W-48,31}))Position.Axes[0]=Position.Axes[1]=Position.Axes[2]=0;U.D->AddRectFilled(U.At(24,Y+161),U.At(W-24,Y+192),ImGui::IsItemHovered()?IM_COL32(42,42,42,255):IM_COL32(34,34,34,255),6);U.Text(36,Y+171,"↶ Reset position",10,Muted);U.Wrap(24,Y+203,W-48,"Type or drag values · Shift for precision.");
- Y+=246;U.Card(0,Y,W,174,"Scene participation");U.Text(W-58,Y+24,"FLAGS",8,Muted);SwitchRow(U,24,Y+55,W-48,"Cast Shadows");SwitchRow(U,24,Y+94,W-48,"Enabled");U.Wrap(24,Y+132,W-48,"Authoring only · renderer sampling and baking unavailable.");Y+=190;ImGui::SetCursorScreenPos(U.At(0,Y));ImGui::Dummy({W,1});
+ Y+=116;U.Card(0,Y,W,710,"Output per metre");U.Text(W-42,Y+24,"01",8,Muted);U.Slider(18,Y+62,W-36,"Flux per metre");U.Slider(18,Y+137,W-36,"Load per metre");U.Slider(18,Y+212,W-36,"Dimmer");U.Slider(18,Y+287,W-36,"Colour temperature");U.Text(18,Y+362,"Emission tint",11,Muted);auto* Colour=Find(Sheet,"Colour");if(Colour){const ImU32 Tint=IM_COL32(int(std::clamp(Colour->ColourTint[0],0.f,1.f)*255),int(std::clamp(Colour->ColourTint[1],0.f,1.f)*255),int(std::clamp(Colour->ColourTint[2],0.f,1.f)*255),255);ImGui::SetCursorScreenPos(U.At(18,Y+384));ImGui::PushID("strip-colour");if(ImGui::InvisibleButton("##swatch",{31,26}))ImGui::OpenPopup("##picker");U.D->AddRectFilled(U.At(18,Y+384),U.At(49,Y+410),Tint,5);std::snprintf(T,sizeof(T),"#%02X%02X%02X",int(Colour->ColourTint[0]*255),int(Colour->ColourTint[1]*255),int(Colour->ColourTint[2]*255));U.Text(59,Y+392,T,9,Muted);if(ImGui::BeginPopup("##picker")){ImGui::ColorPicker3("##rgb",Colour->ColourTint,ImGuiColorEditFlags_NoAlpha|ImGuiColorEditFlags_NoSidePreview);ImGui::EndPopup();}ImGui::PopID();}U.D->AddLine(U.At(18,Y+430),U.At(W-18,Y+430),IM_COL32(255,255,255,18),1);U.Text(18,Y+455,"Electrical budget",14);U.Text(W-88,Y+458,"ANALYTICAL",8,Muted);std::snprintf(T,sizeof(T),"%.2f A",double(Current));U.D->AddText(Display,32,U.At(18,Y+493),Ink,T);U.Wrap(18,Y+535,W-36,"Connected watts ÷ supply volts · ideal full-load current");const float ChartL=18,ChartR=W-18,ChartT=Y+585,ChartB=Y+665;for(int Row=0;Row<3;++Row){float YY=ChartT+Row*(ChartB-ChartT)/2;for(float X=ChartL;X<ChartR;X+=7)U.D->AddLine(U.At(X,YY),U.At(std::min(X+2,ChartR),YY),IM_COL32(255,255,255,23),1);}U.D->AddLine(U.At(ChartL,ChartB),U.At(ChartR,ChartT),Gold,1.5f);U.Text(ChartL,ChartB+6,"0",9,Muted);std::snprintf(T,sizeof(T),"%.1f m",double(Length));U.Text(ChartR-32,ChartB+6,T,9,Muted);
+ Y+=726;U.Card(0,Y,W,366,"Layout & segments");U.Text(W-42,Y+24,"02",8,Muted);U.Slider(18,Y+62,W-36,"Strip length");U.Slider(18,Y+137,W-36,"Emitter density");U.Slider(18,Y+212,W-36,"Supply voltage");SwitchRow(U,18,Y+302,W-36,"Opal diffuser");
+ Y+=382;U.Card(0,Y,W,230,"Transform");U.Text(W-94,Y+24,"LOCAL SPACE",8,Muted);U.Text(18,Y+57,"Component",9,Muted);U.Text(W-126,Y+57,"X",9,IM_COL32(214,112,112,255));U.Text(W-83,Y+57,"Y",9,IM_COL32(112,190,130,255));U.Text(W-40,Y+57,"Z",9,IM_COL32(105,146,216,255));U.Text(18,Y+91,"Position",10,Muted);const float AxisW=(W-104)/3;for(int Axis=0;Axis<3;++Axis){const float AX=78+Axis*(AxisW+4);ImGui::SetCursorScreenPos(U.At(AX,Y+77));ImGui::PushID(Axis);ImGui::InvisibleButton("##axis",{AxisW,32});if(ImGui::IsItemActive()&&ImGui::IsMouseDragging(ImGuiMouseButton_Left))Position.Axes[Axis]+=ImGui::GetIO().MouseDelta.x*Position.AxisStep;U.D->AddRectFilled(U.At(AX,Y+77),U.At(AX+AxisW,Y+109),IM_COL32(8,8,8,255),5);std::snprintf(T,sizeof(T),"%.2f",double(Position.Axes[Axis]));U.Text(AX+8,Y+88,T,9,IM_COL32(204,204,204,255));ImGui::PopID();}U.Text(18,Y+130,"Direction",10,Muted);U.Text(78,Y+130,"+X local run",10);ImGui::SetCursorScreenPos(U.At(18,Y+161));if(ImGui::InvisibleButton("##reset-strip-position",{W-36,31}))Position.Axes[0]=Position.Axes[1]=Position.Axes[2]=0;U.D->AddRectFilled(U.At(18,Y+161),U.At(W-18,Y+192),ImGui::IsItemHovered()?IM_COL32(42,42,42,255):IM_COL32(34,34,34,255),6);U.Text(30,Y+171,"↶ Reset position",10,Muted);U.Wrap(18,Y+203,W-36,"Type or drag values · Shift for precision.");
+ Y+=246;U.Card(0,Y,W,174,"Scene participation");U.Text(W-58,Y+24,"FLAGS",8,Muted);SwitchRow(U,18,Y+55,W-36,"Cast Shadows");SwitchRow(U,18,Y+94,W-36,"Enabled");U.Wrap(18,Y+132,W-36,"Authoring only · renderer sampling and baking unavailable.");Y+=190;ImGui::SetCursorScreenPos(U.At(0,Y));ImGui::Dummy({W,1});
 }
 }
 void RecordLightInspector(ControlPanel& Controls,EditorInstance&,EditorSheet& Sheet){

diff --git a/Frontier/Exhibits/Workbench/Folder/NativePanelProof.cpp b/Frontier/Exhibits/Workbench/Folder/NativePanelProof.cpp
@@ -10,4 +10,4 @@
 using namespace Frontier;
 static void Row(EditorInstance& R,uint64_t Key,const char* Name,uint32_t Depth,EditorInstanceCategory Category,bool Visible=true){R.InspectorKey=Key;std::snprintf(R.Label,sizeof(R.Label),"%s",Name);R.Depth=Depth;R.Category=Category;R.Visible=Visible;R.Tint[0]=.63f;R.Tint[1]=.70f;R.Tint[2]=.73f;if(!std::strcmp(Name,"Atmosphere"))R.Glyph=EditorGlyph::Atmosphere;else if(!std::strcmp(Name,"Sun"))R.Glyph=EditorGlyph::Sun;else if(!std::strcmp(Name,"Sky"))R.Glyph=EditorGlyph::Sky;else if(!std::strcmp(Name,"Moon A"))R.Glyph=EditorGlyph::Moon;else if(!std::strcmp(Name,"Stars"))R.Glyph=EditorGlyph::Stars;else if(!std::strcmp(Name,"Wind"))R.Glyph=EditorGlyph::Wind;else if(!std::strcmp(Name,"Height Fog"))R.Glyph=EditorGlyph::VolumeFog;else if(!std::strcmp(Name,"Atmospheric Fog"))R.Glyph=EditorGlyph::AerialFog;else if(!std::strcmp(Name,"Local Fog"))R.Glyph=EditorGlyph::Fog;else if(!std::strcmp(Name,"Clouds"))R.Glyph=EditorGlyph::VolumeClouds;else if(!std::strcmp(Name,"Local Cloud"))R.Glyph=EditorGlyph::LocalCloud;else if(!std::strcmp(Name,"Precipitation"))R.Glyph=EditorGlyph::Rain;else if(std::strstr(Name,"Spot")||std::strstr(Name,"Point"))R.Glyph=EditorGlyph::Bulb;else if(std::strstr(Name,"Camera"))R.Glyph=EditorGlyph::Camera;}
 int main(){std::filesystem::create_directories("Exhibits/Gallery/FolderNative");ImGui::CreateContext();auto& IO=ImGui::GetIO();IO.IniFilename=nullptr;IO.DeltaTime=1.f/60;IO.BackendFlags|=ImGuiBackendFlags_RendererHasTextures|ImGuiBackendFlags_RendererHasVtxOffset;ImFontConfig FontConfig;std::snprintf(FontConfig.Name,sizeof(FontConfig.Name),"Sun reference / regular");auto* Ui=IO.Fonts->AddFontFromFileTTF("EngineContent/Fonts/SunReference/DMSans-Regular.ttf",14,&FontConfig);ImFontConfig DisplayConfig;std::snprintf(DisplayConfig.Name,sizeof(DisplayConfig.Name),"Sun reference / light");auto* Display=IO.Fonts->AddFontFromFileTTF("EngineContent/Fonts/SunReference/DMSans-Light.ttf",40,&DisplayConfig);ImGui::StyleColorsDark();auto& Style=ImGui::GetStyle();Style.WindowPadding={14,14};Style.WindowRounding=0;Style.WindowBorderSize=0;ControlPanel Controls;Controls.AssignFonts(Ui,Ui,Ui,Ui,Display,Display);InspectorPanel Inspector;std::vector<EditorInstance> Rows(18);Row(Rows[0],1,"World",0,EditorInstanceCategory::Folder);Row(Rows[1],2,"Atmosphere",1,EditorInstanceCategory::Geometry);Row(Rows[2],3,"Sun",1,EditorInstanceCategory::Light);Row(Rows[3],4,"Sky",1,EditorInstanceCategory::Geometry);Row(Rows[4],5,"Moons",1,EditorInstanceCategory::Folder);Row(Rows[5],6,"Moon A",2,EditorInstanceCategory::Geometry);Row(Rows[6],7,"Stars",1,EditorInstanceCategory::Geometry);Row(Rows[7],8,"Wind",1,EditorInstanceCategory::Geometry);Row(Rows[8],9,"Height Fog",1,EditorInstanceCategory::Geometry);Row(Rows[9],10,"Atmospheric Fog",1,EditorInstanceCategory::Geometry);Row(Rows[10],11,"Local Fog",1,EditorInstanceCategory::Geometry);Row(Rows[11],12,"Clouds",1,EditorInstanceCategory::Folder);Row(Rows[12],13,"Local Cloud",2,EditorInstanceCategory::Geometry);Row(Rows[13],14,"Precipitation",2,EditorInstanceCategory::Geometry);Row(Rows[14],15,"Lighting",1,EditorInstanceCategory::Folder);Row(Rows[15],16,"Key Spot",2,EditorInstanceCategory::Light);Row(Rows[16],17,"Fill Point",2,EditorInstanceCategory::Light,false);Row(Rows[17],18,"Editor Camera",1,EditorInstanceCategory::Camera);
- int W=339,H=732;float ScrollY=0;auto Tick=[&](){IO.DisplaySize={float(W),float(H)};ImGui::NewFrame();ImGui::SetNextWindowPos({0,0});ImGui::SetNextWindowSize(IO.DisplaySize);ImGui::Begin("Inspector",nullptr,ImGuiWindowFlags_NoTitleBar|ImGuiWindowFlags_NoScrollbar);ImGui::BeginChild("##collection-content",{0,float(H-40)},ImGuiChildFlags_None,ImGuiWindowFlags_NoScrollbar);ImGui::SetScrollY(ScrollY);Inspector.RecordCollectionProof(Controls,Rows.data(),uint32_t(Rows.size()),0);ImGui::EndChild();auto* FooterDraw=ImGui::GetForegroundDrawList();FooterDraw->AddRectFilled({0,float(H-40)},{float(W),float(H)},IM_COL32(21,21,21,255));FooterDraw->AddLine({0,float(H-40)},{float(W),float(H-40)},IM_COL32(255,255,255,8));FooterDraw->AddText(Ui,9,{12,float(H-17)},IM_COL32(105,105,105,255),!std::strcmp(Rows[0].Label,"Asset archive")?"Browser test fixture · 2,500 asset records…":"Environment");FooterDraw->AddText(Ui,9,{float(W-73),float(H-17)},IM_COL32(105,105,105,255),"HTML preview");ImGui::End();ImGui::Render();FrontierProof::AcknowledgeTextures();};auto Capture=[&](const char* Name){for(int I=0;I<3;++I)Tick();std::vector<unsigned char>P(size_t(W)*H*3,24);for(auto* L:ImGui::GetDrawData()->CmdLists)FrontierProof::Draw(L,P.data(),W,H,{0,0},{1,1});std::string Path="Exhibits/Gallery/FolderNative/"+std::string(Name)+".png";if(!stbi_write_png(Path.c_str(),W,H,3,P.data(),W*3))return false;return true;};if(!Capture("Folder-Collection-Viewport"))return 2;W=328;H=2200;if(!Capture("Folder-Collection"))return 3;W=300;H=2400;if(!Capture("Folder-Collection-Narrow"))return 4;std::vector<EditorInstance> Large(2509);Row(Large[0],10000,"Asset archive",0,EditorInstanceCategory::Folder);size_t Cursor=1,AssetNumber=1;for(unsigned Folder=0;Folder<8;++Folder){char Name[32];std::snprintf(Name,sizeof(Name),"Batch %u",Folder+1);Row(Large[Cursor],11000+Cursor,Name,1,EditorInstanceCategory::Folder);++Cursor;const unsigned Count=Folder<4?313:312;for(unsigned Item=0;Item<Count;++Item){char Asset[32];const size_t ThisAsset=AssetNumber++;std::snprintf(Asset,sizeof(Asset),"Asset %05zu",ThisAsset);Row(Large[Cursor],11000+Cursor,Asset,2,EditorInstanceCategory::Geometry,Cursor!=2508);std::snprintf(Large[Cursor].Meta,sizeof(Large[Cursor].Meta),"Batch %zu",(ThisAsset-1)%8+1);++Cursor;}}Rows=std::move(Large);W=339;H=732;ScrollY=0;if(!Capture("Folder-Large-Viewport"))return 5;ScrollY=791;if(!Capture("Folder-Browser-Viewport"))return 6;ImGui::DestroyContext();std::puts("PASS native folder collection: source-aligned hierarchy, totals, visibility, composition, search/filter/sort, manifest and notes layout.");}
+ int W=339,H=732;float ScrollY=0;auto Tick=[&](){IO.DisplaySize={float(W),float(H)};ImGui::NewFrame();ImGui::SetNextWindowPos({0,0});ImGui::SetNextWindowSize(IO.DisplaySize);ImGui::Begin("Inspector",nullptr,ImGuiWindowFlags_NoTitleBar|ImGuiWindowFlags_NoScrollbar);ImGui::BeginChild("##collection-content",{0,float(H-40)},ImGuiChildFlags_None,ImGuiWindowFlags_NoScrollbar);ImGui::SetScrollY(ScrollY);Inspector.RecordCollectionProof(Controls,Rows.data(),uint32_t(Rows.size()),0);ImGui::EndChild();auto* FooterDraw=ImGui::GetForegroundDrawList();FooterDraw->AddRectFilled({0,float(H-40)},{float(W),float(H)},IM_COL32(21,21,21,255));FooterDraw->AddLine({0,float(H-40)},{float(W),float(H-40)},IM_COL32(255,255,255,8));FooterDraw->AddText(Ui,9,{12,float(H-17)},IM_COL32(105,105,105,255),!std::strcmp(Rows[0].Label,"Asset archive")?"Browser test fixture · 2,500 asset records…":"Environment");FooterDraw->AddText(Ui,9,{float(W-73),float(H-17)},IM_COL32(105,105,105,255),"HTML preview");ImGui::End();ImGui::Render();FrontierProof::AcknowledgeTextures();};auto Capture=[&](const char* Name){for(int I=0;I<3;++I)Tick();std::vector<unsigned char>P(size_t(W)*H*3,24);for(auto* L:ImGui::GetDrawData()->CmdLists)FrontierProof::Draw(L,P.data(),W,H,{0,0},{1,1});std::string Path="Exhibits/Gallery/FolderNative/"+std::string(Name)+".png";if(!stbi_write_png(Path.c_str(),W,H,3,P.data(),W*3))return false;return true;};if(!Capture("Folder-Collection-Viewport"))return 2;W=328;H=2200;if(!Capture("Folder-Collection"))return 3;W=300;H=2400;if(!Capture("Folder-Collection-Narrow"))return 4;std::vector<EditorInstance> Large(2509);Row(Large[0],10000,"Asset archive",0,EditorInstanceCategory::Folder);size_t Cursor=1,AssetNumber=1;for(unsigned Folder=0;Folder<8;++Folder){char Name[32];std::snprintf(Name,sizeof(Name),"Batch %u",Folder+1);Row(Large[Cursor],11000+Cursor,Name,1,EditorInstanceCategory::Folder);++Cursor;const unsigned Count=Folder<4?313:312;for(unsigned Item=0;Item<Count;++Item){char Asset[32];const size_t ThisAsset=AssetNumber++;std::snprintf(Asset,sizeof(Asset),"Asset %05zu",ThisAsset);Row(Large[Cursor],11000+Cursor,Asset,2,EditorInstanceCategory::Geometry,Cursor!=2508);std::snprintf(Large[Cursor].Meta,sizeof(Large[Cursor].Meta),"Batch %zu",(ThisAsset-1)%8+1);++Cursor;}}Rows=std::move(Large);W=339;H=732;ScrollY=0;if(!Capture("Folder-Large-Viewport"))return 5;ScrollY=808;if(!Capture("Folder-Browser-Viewport"))return 6;ImGui::DestroyContext();std::puts("PASS native folder collection: source-aligned hierarchy, totals, visibility, composition, search/filter/sort, manifest and notes layout.");}
